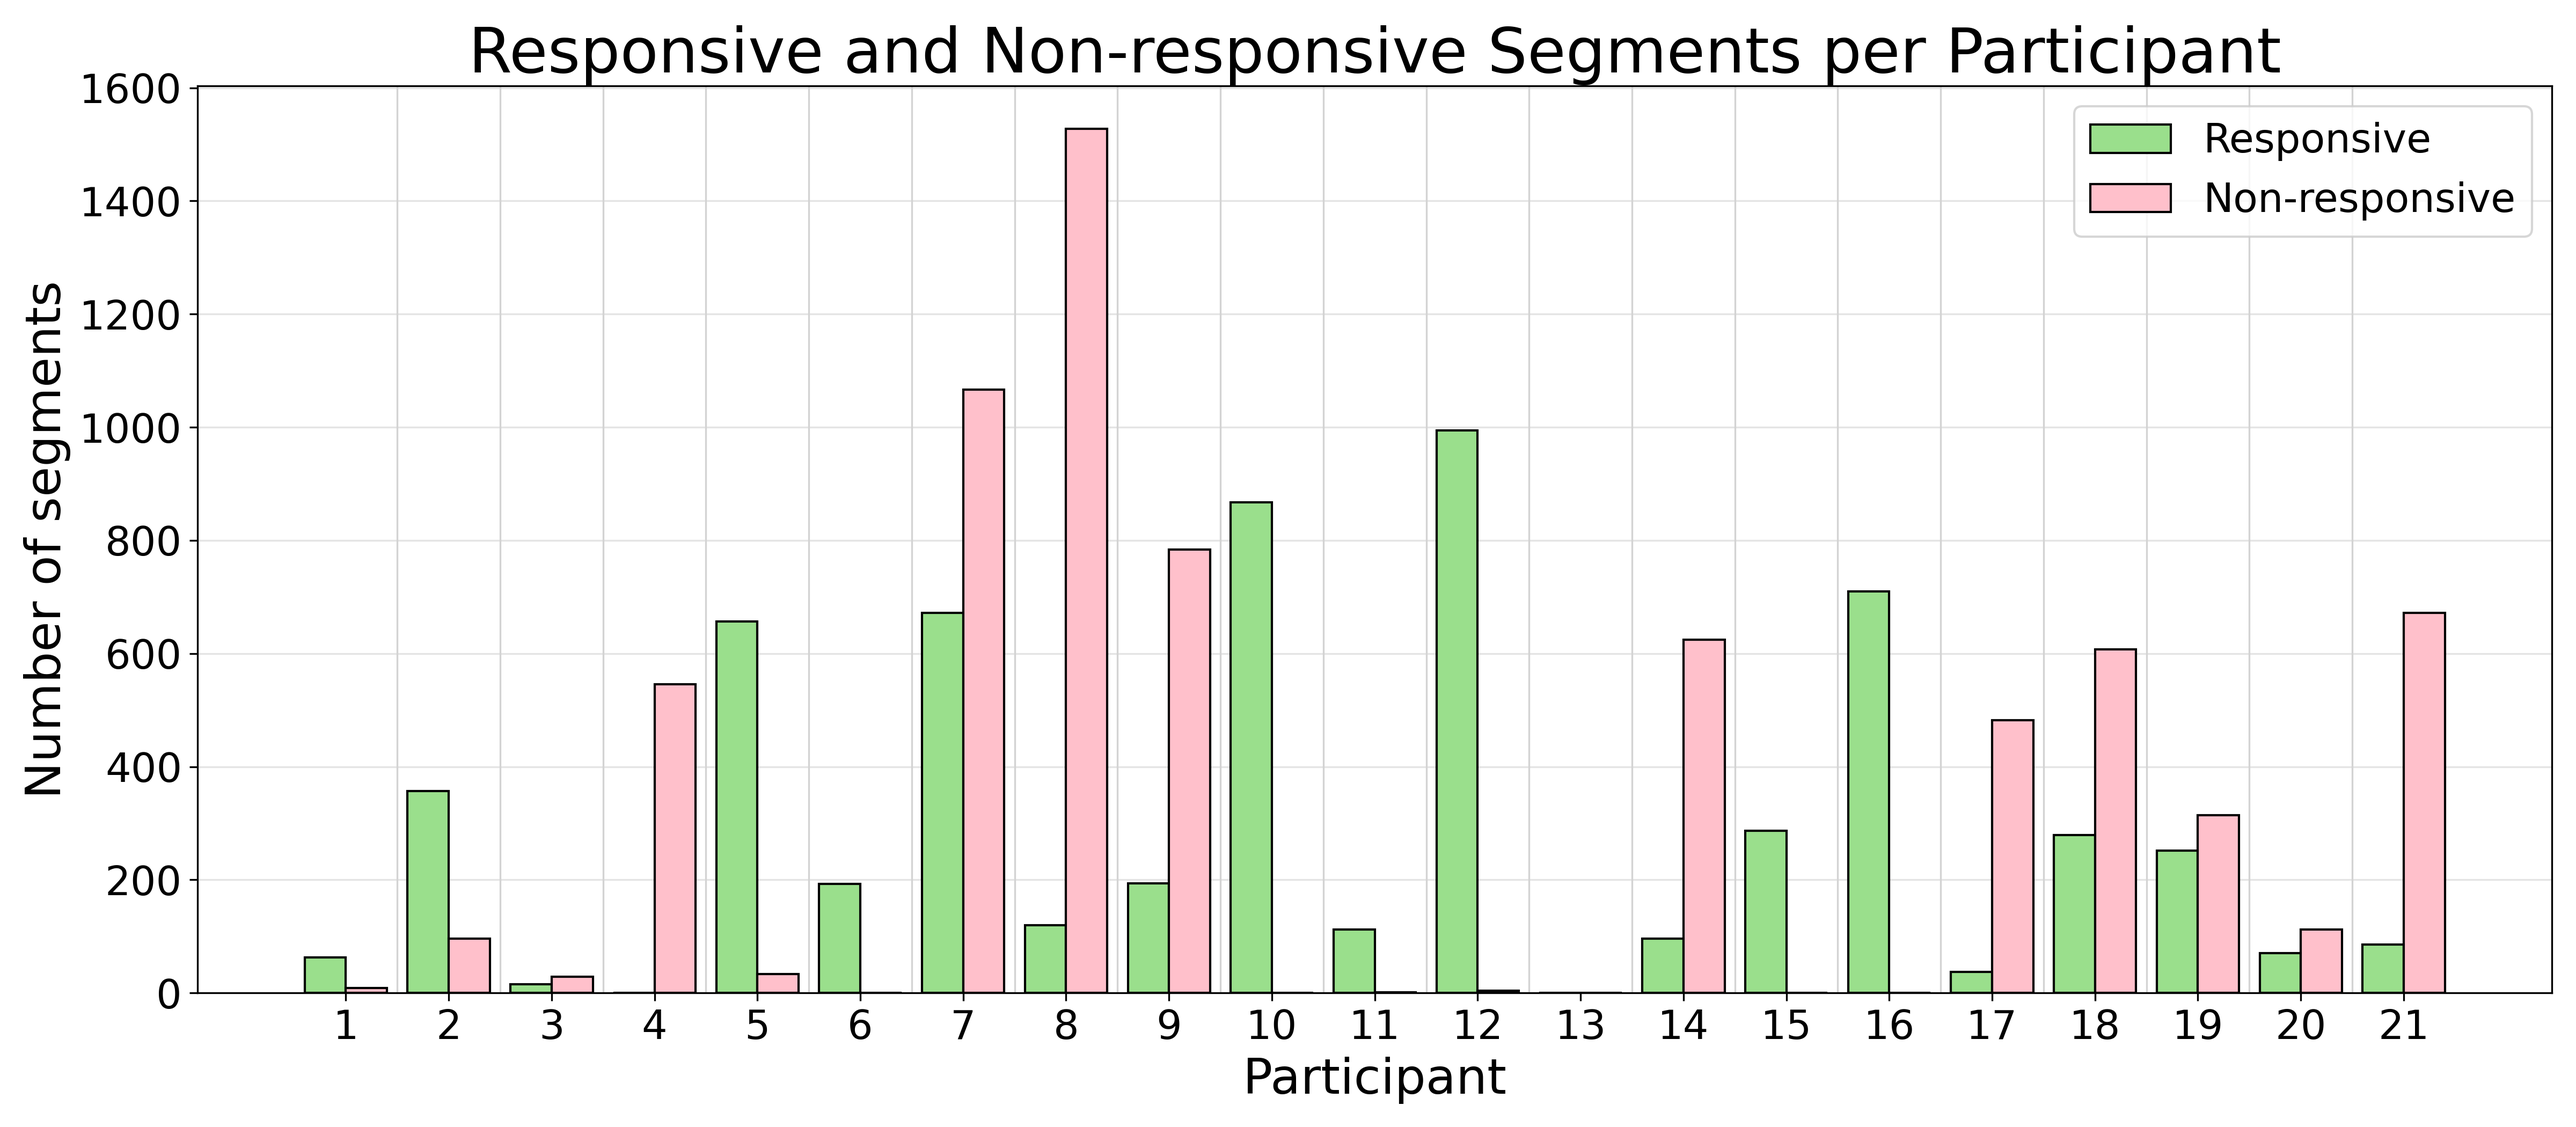
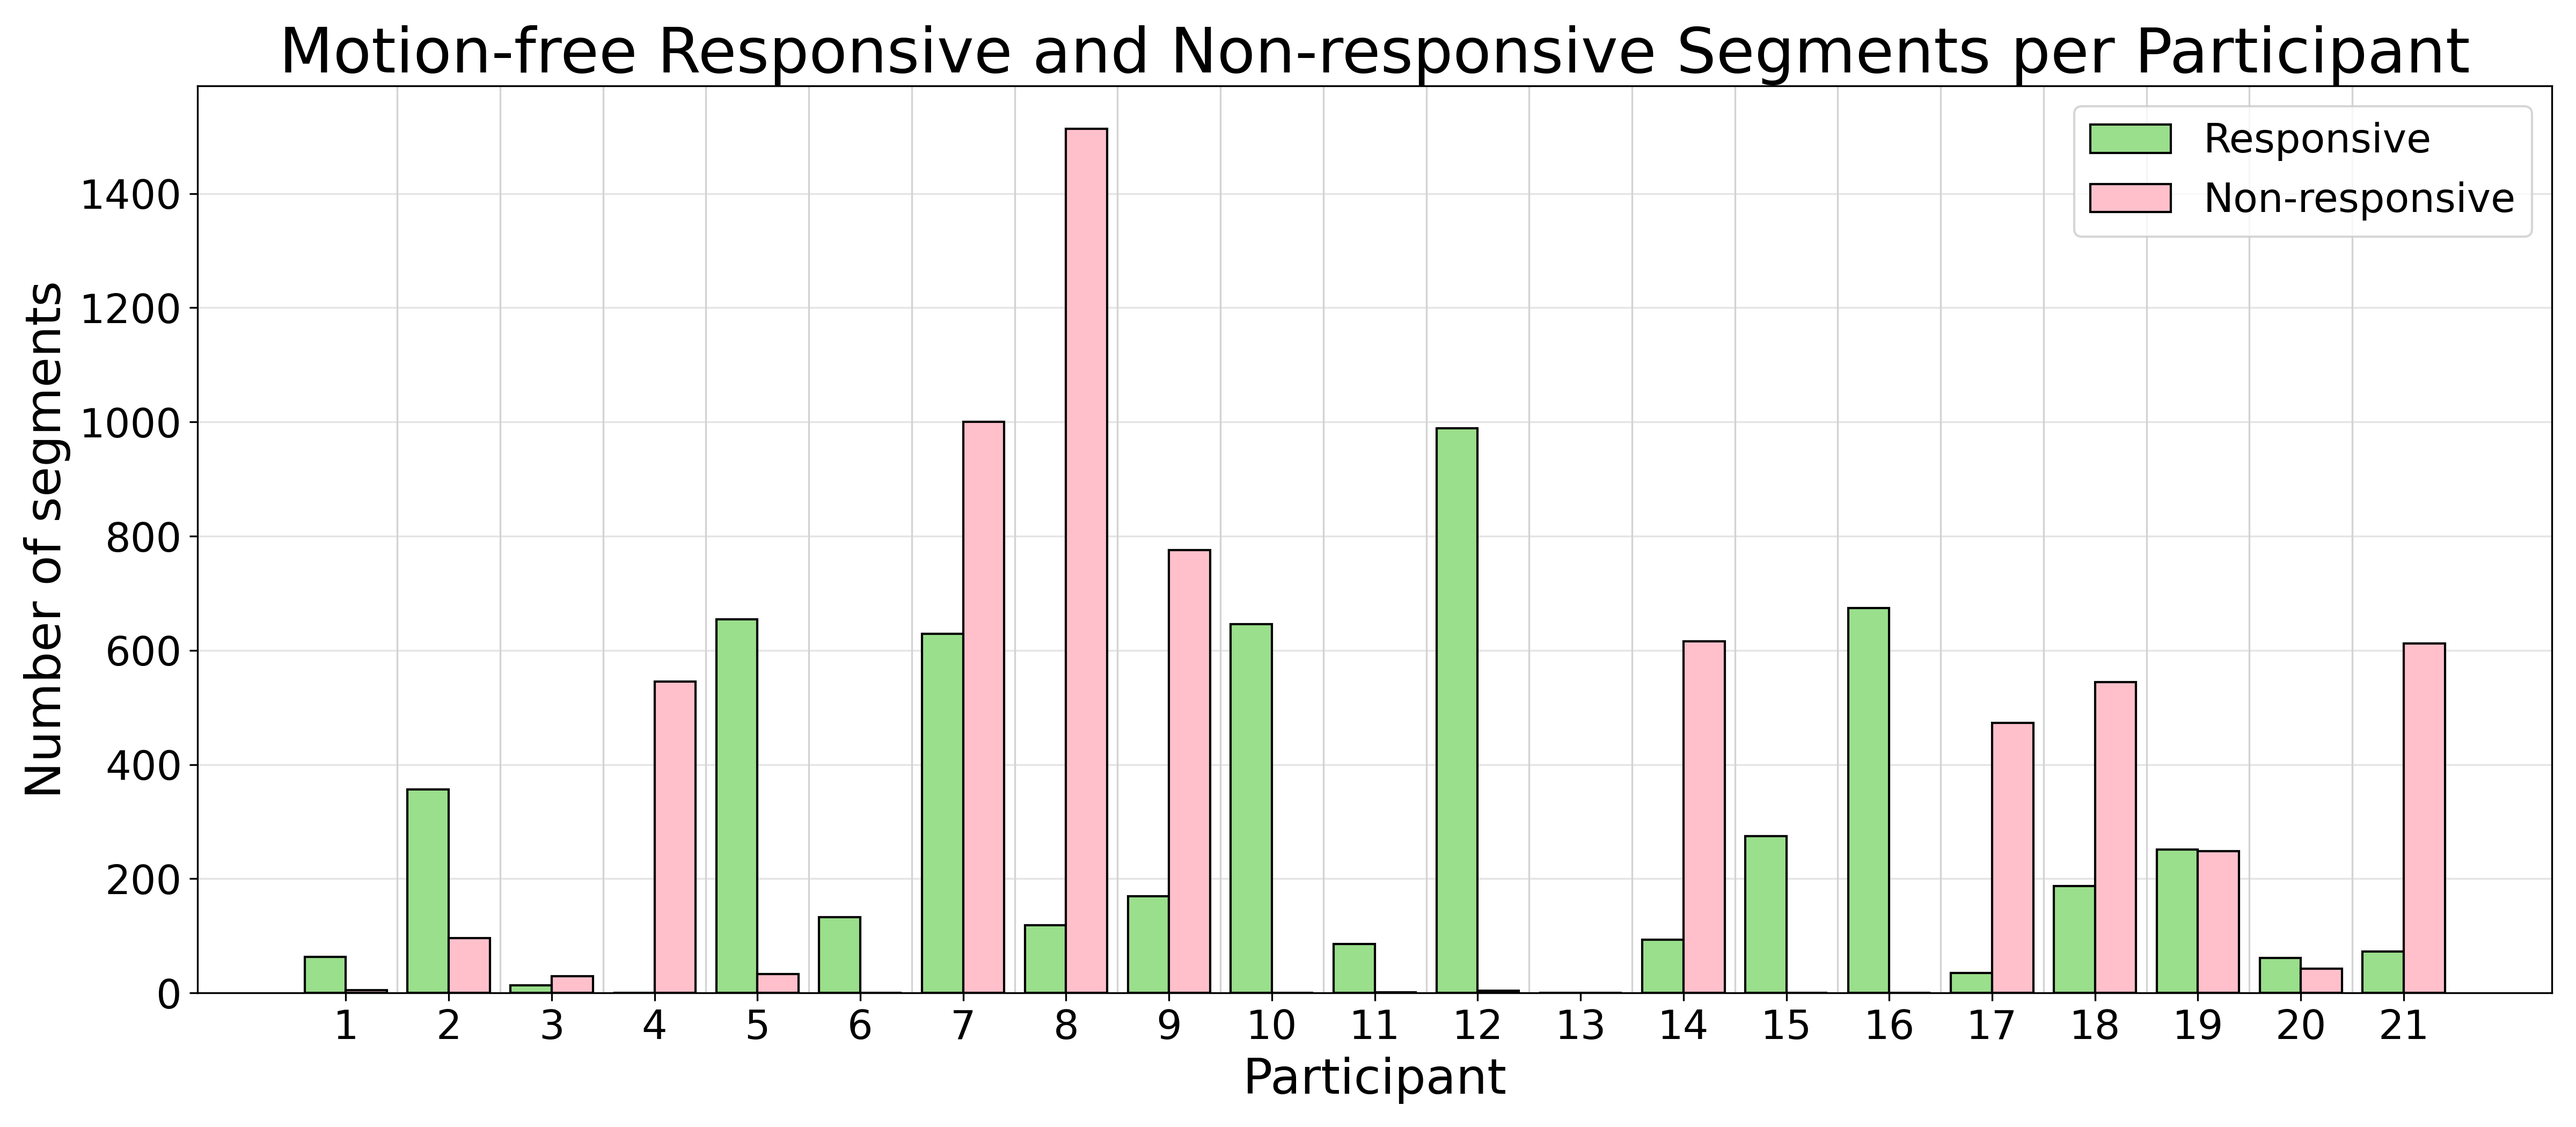
visualize motion-free segments

diff --git a/label_segments.py b/label_segments.py
@@ -246,6 +246,8 @@ def label_responsive_segments(segment_length=10, buffer=10):
 def plot_segment_counts_by_participant():
     responsive = pd.read_csv(SAVE_PATH / "responsive_10TR_segments.csv")
     non_responsive = pd.read_csv(SAVE_PATH / "non_responsive_10TR_segments.csv")
+    responsive = responsive[~responsive["contains_motion"].astype(str).str.lower().eq("true")]
+    non_responsive = non_responsive[~non_responsive["contains_motion"].astype(str).str.lower().eq("true")]
     participant_numbers = pd.Index(range(1, 22), name="participant_num")
 
     def counts_by_participant(segments):
@@ -266,7 +268,7 @@ def plot_segment_counts_by_participant():
     ax.bar(x + width / 2, non_responsive_counts, width, color="pink", edgecolor='black', linewidth=1, label="Non-responsive")
     ax.set_xlabel("Participant", fontsize=22)
     ax.set_ylabel("Number of segments", fontsize=22)
-    ax.set_title("Responsive and Non-responsive Segments per Participant", fontsize=28)
+    ax.set_title("Motion-free Responsive and Non-responsive Segments per Participant", fontsize=28)
     ax.set_xticks(x)
     ax.set_xticklabels(x, fontsize=18)
     ax.tick_params(axis="y", labelsize=18)
@@ -274,8 +276,6 @@ def plot_segment_counts_by_participant():
     plt.tight_layout()
     plt.savefig(SAVE_PATH / "segment_counts_by_participant.png", dpi=300)
     plt.close()
-
-
 
 if __name__ == "__main__":
     # label_non_responsive_segments()

diff --git a/all_rois.py b/all_rois.py
@@ -1,6 +1,5 @@
 aan_rois = ['LC', 'DR', 'MnR', 'mRt', 'PAG', 'PnO', 'PTg', 'VTA', 'BasalForebrain', 'POA', 'LH']
 
-
 cortical_rois = ['caudalanteriorcingulate', 'caudalmiddlefrontal', 'cuneus', 'entorhinal', 'frontalpole', 'fusiform', 'insula', 'isthmuscingulate', 'lateraloccipital', 'lateralorbitofrontal', 'lingual', 'medialorbitofrontal', 'rostralmiddlefrontal', 'paracentral', 'parahippocampal', 'pericalcarine', 'postcentral', 'posteriorcingulate', 'precentral', 'precuneus', 'rostralanteriorcingulate', 'superiorfrontal', 'superiorparietal', 'temporalpole']
 
 
